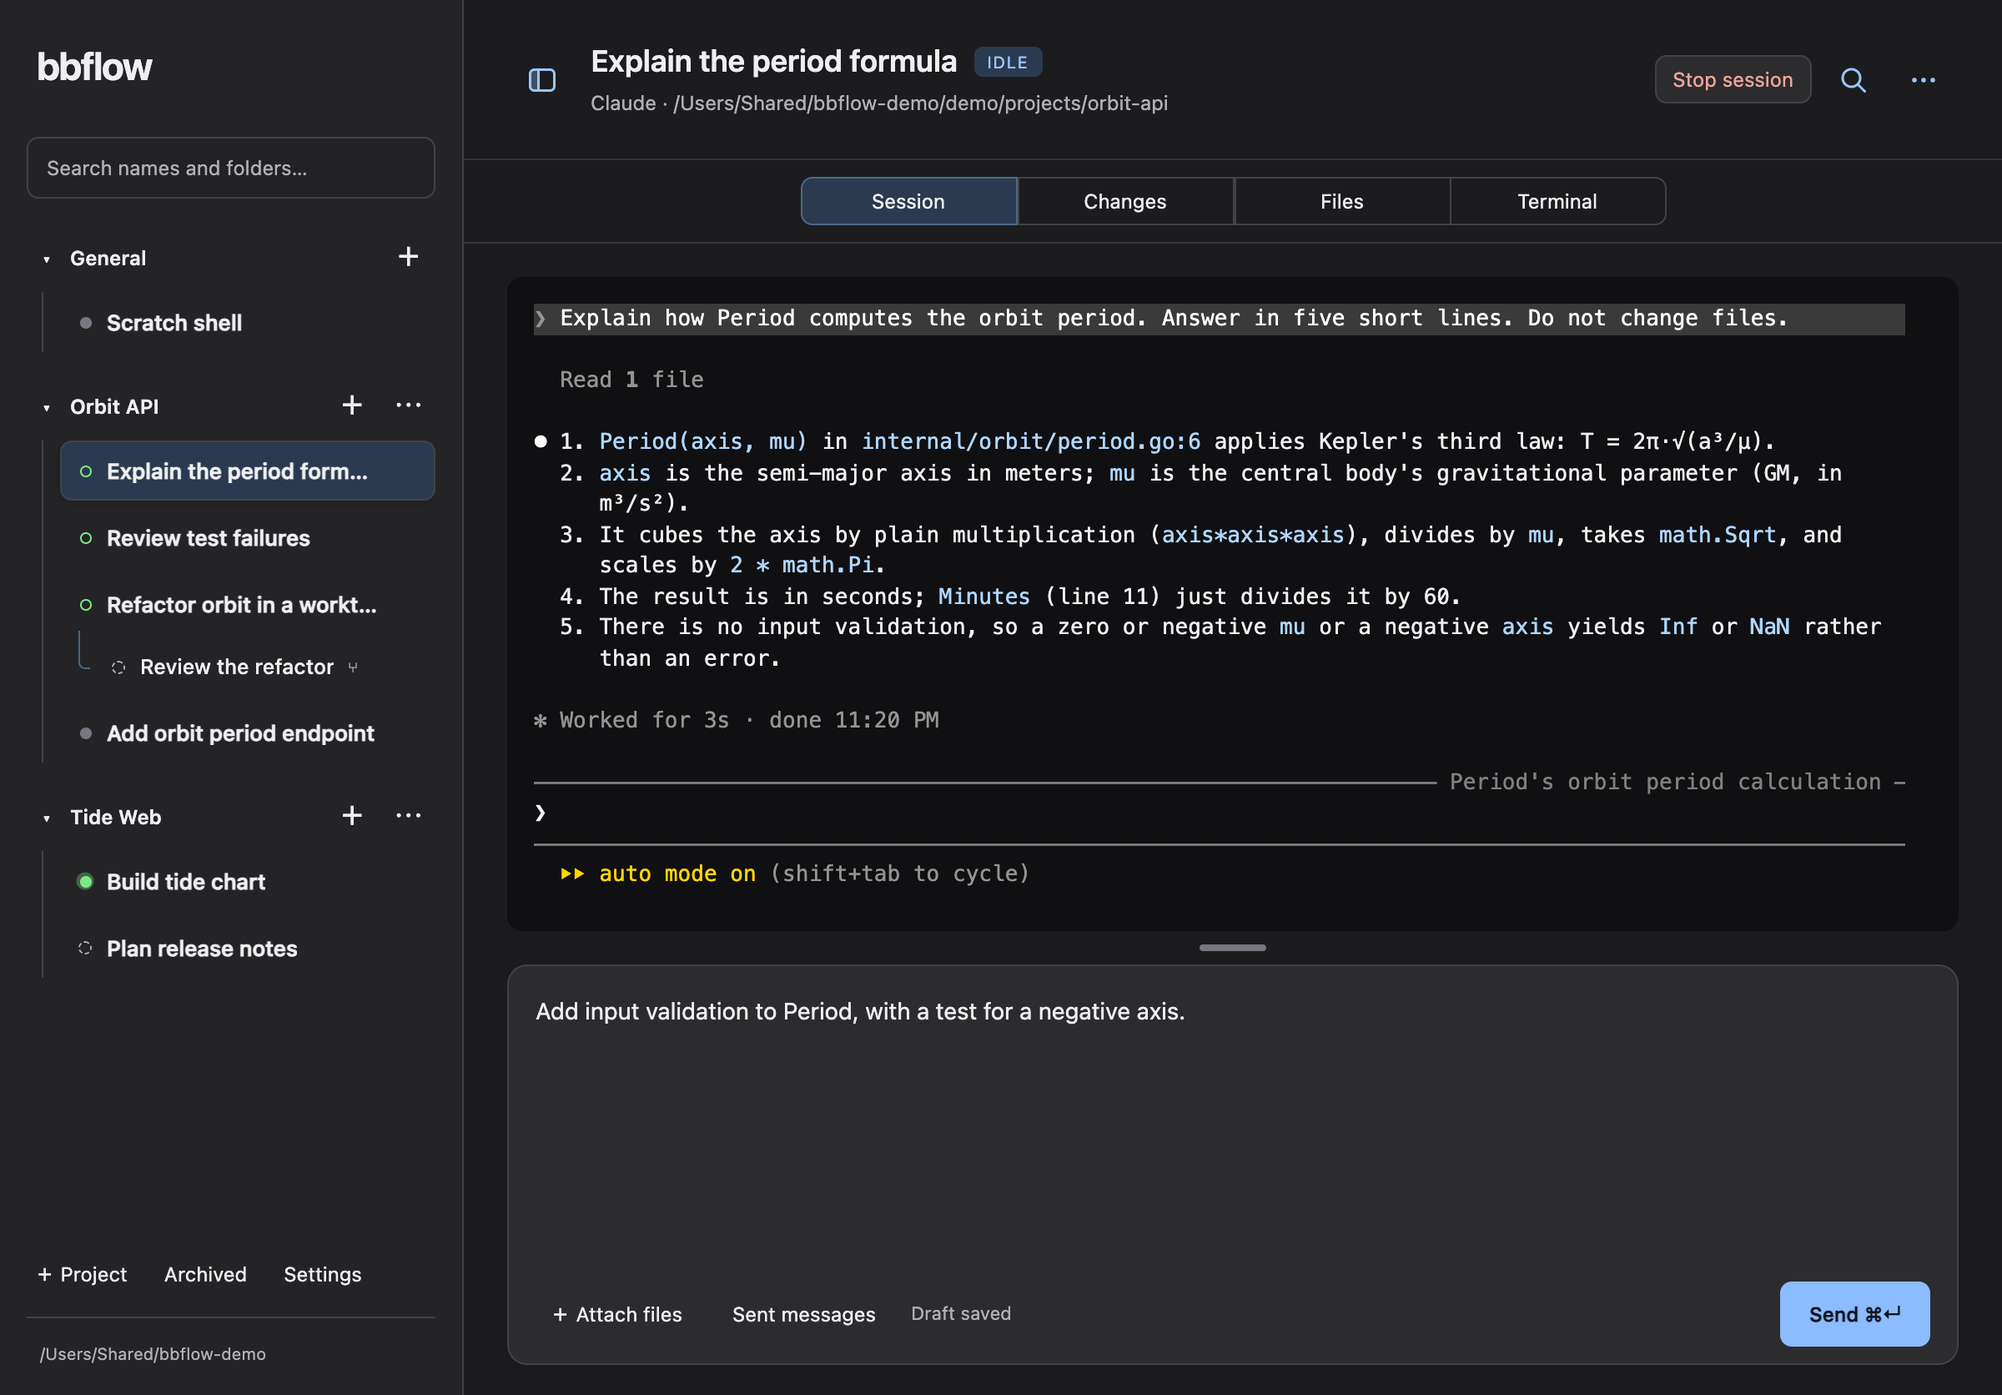
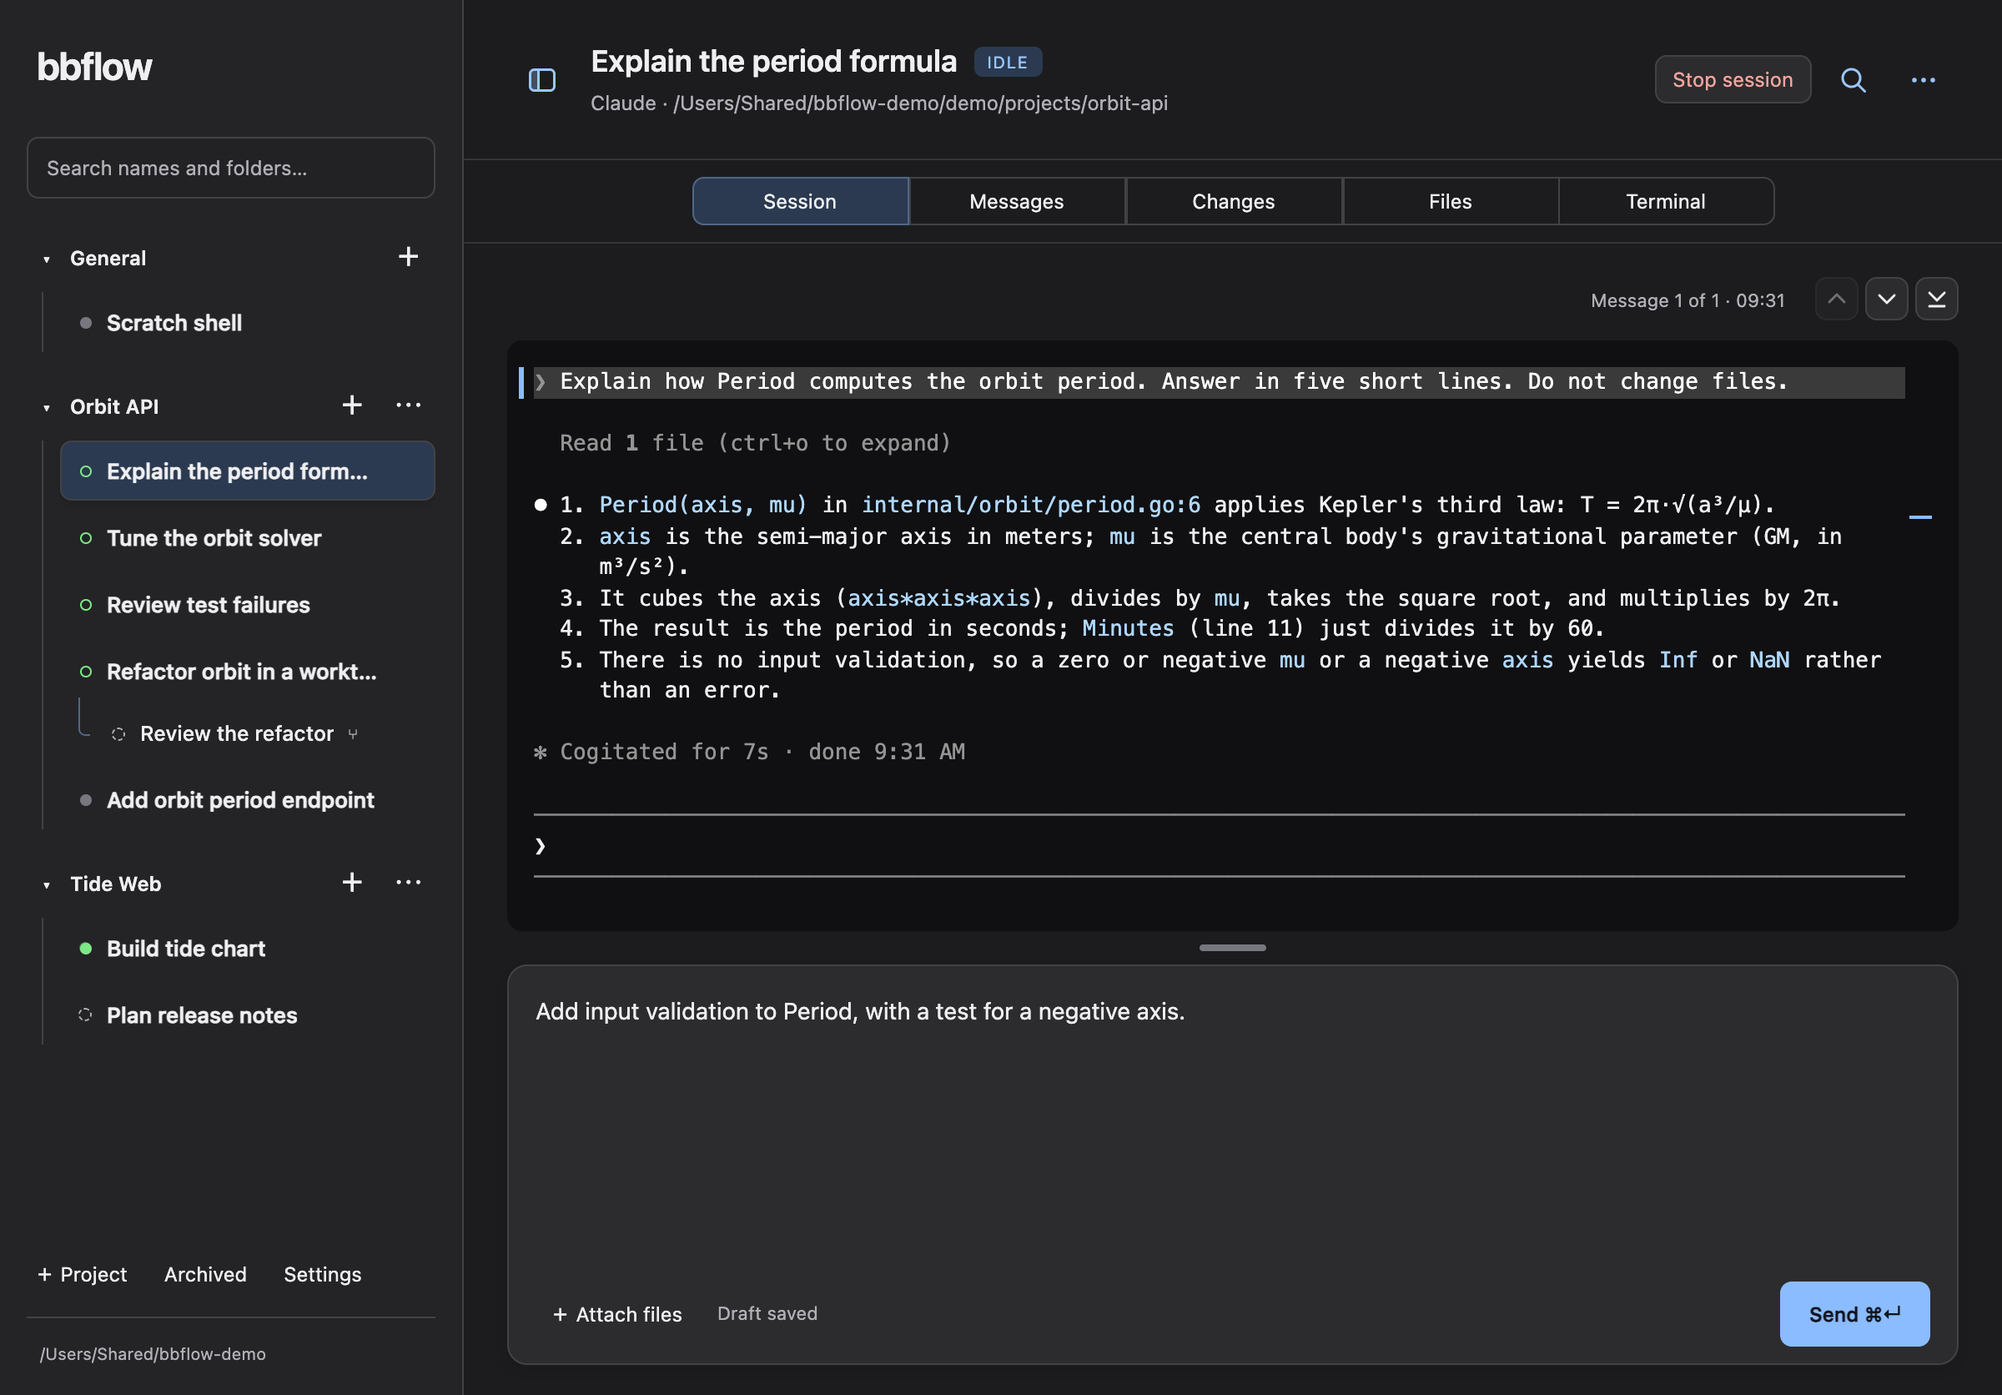
Take the last copy of a message, close two refresh gaps, and refresh the screenshot
Review round 2 and a check with a real Claude Code session found these
defects:

- Claude Code draws its output again after a change of the terminal
  width and can leave an earlier copy of a message in the scrollback. The
  search took that earlier copy. It now takes the messages from the
  newest to the oldest and uses the last place of each one.
- A draft watch that connected again gave only the latest draft, so a
  send from another view in that time refreshed nothing. The editor now
  reports a possible send after each reconnect.
- A reload of the newest page that did not reach the read messages left
  a gap in the cache. The cache now starts again from that page.
- A jump target near the end of the output became the current message
  again when the view returned to the same position by hand. The view
  now drops the target at the first scroll.

docs/images/session.png is a new capture with the message bar, the
Messages view in the view switch, and the editor without Sent messages.
docs/DEVELOPMENT.md has the changed capture steps.

diff --git a/web/src/message-marks.ts b/web/src/message-marks.ts
@@ -76,11 +76,11 @@ function endsRow(joined: Rows, end: number): boolean {
   return rest.length <= tailLimit && !word.test(rest);
 }
 
-// find returns the offset of the first place at or after from where needle passes the
-// checks, or -1.
-function find(joined: Rows, needle: string, from: number, start: boolean, end: boolean): number {
+// findLast returns the offset of the last place where needle passes the checks and ends
+// at or before limit, or -1.
+function findLast(joined: Rows, needle: string, limit: number, start: boolean, end: boolean): number {
   if (!needle) return -1;
-  for (let offset = joined.text.indexOf(needle, from); offset >= 0; offset = joined.text.indexOf(needle, offset + 1)) {
+  for (let offset = joined.text.lastIndexOf(needle, limit - needle.length); offset >= 0; offset = offset > 0 ? joined.text.lastIndexOf(needle, offset - 1) : -1) {
     if ((!start || startsRow(joined, offset)) && (!end || endsRow(joined, offset + needle.length))) return offset;
   }
   return -1;
@@ -88,18 +88,27 @@ function find(joined: Rows, needle: string, from: number, start: boolean, end: b
 
 // locate returns the row of each message in rows, or -1 for a message that the rows do
 // not show. messages are the sent texts in send order, and rows are the text rows of the
-// terminal from the oldest row. A message is searched after the message before it, so
-// that a later quote of an earlier message is not taken for a message.
+// terminal from the oldest row.
+//
+// The search takes the messages from the newest to the oldest. It takes the last place
+// of each message, above the place of the message after it. An application that draws
+// its output again, for example after a change of the terminal width, can leave earlier
+// copies of a message in the scrollback. The last copy has the current output below it.
+// Two messages with the same text thus also get their own rows.
 //
 // The search tries these forms of a message in order, and takes the first that it finds:
 // 1. All of the text, at the start of a row and to the end of a row.
 // 2. The first line, at the start of a row and to the end of a row. An application can
 //    show a long message in a shorter form.
 // 3. The start of the first line, at the start of a row.
+// The rules for the row start and the row end keep a quote of a message in running text
+// from the search.
 export function locate(rows: readonly string[], messages: readonly string[]): number[] {
   const joined = join(rows);
-  let from = 0;
-  return messages.map(message => {
+  let limit = joined.text.length;
+  const found = new Array<number>(messages.length).fill(-1);
+  for (let index = messages.length - 1; index >= 0; index--) {
+    const message = messages[index] ?? '';
     const all = message.replace(spaces, '');
     const first = (message.trim().split('\n')[0] ?? '').replace(spaces, '');
     const prefix = first.slice(0, prefixLength);
@@ -109,13 +118,14 @@ export function locate(rows: readonly string[], messages: readonly string[]): nu
       [prefix.length >= prefixMinimum ? prefix : '', true, false],
     ];
     for (const [needle, start, end] of forms) {
-      const offset = find(joined, needle, from, start, end);
+      const offset = findLast(joined, needle, limit, start, end);
       if (offset < 0) continue;
-      from = offset + needle.length;
-      return rowAt(joined.starts, offset);
+      limit = offset;
+      found[index] = rowAt(joined.starts, offset);
+      break;
     }
-    return -1;
-  });
+  }
+  return found;
 }
 
 // currentMark returns the index of the message that the view reads: the last message at
@@ -197,32 +207,51 @@ export const messageLimit = 200, readLimit = 1000;
 // The sent messages that a view read for the terminal that it shows. The server gives
 // pages from the newest message. messages are the read messages of the terminal, from
 // the oldest. cursor is the revision of the oldest read message, or 0 before the first
-// page. reached is the send time of that message. read counts all read messages.
-export interface MessageCache { messages: SentMessage[]; cursor: number; reached: string; more: boolean; read: number }
+// page. reached is the send time of that message. read counts all read messages. top is
+// the revision of the newest read message.
+export interface MessageCache { messages: SentMessage[]; cursor: number; reached: string; more: boolean; read: number; top: number }
 
 export function emptyCache(): MessageCache {
-  return { messages: [], cursor: 0, reached: '', more: false, read: 0 };
+  return { messages: [], cursor: 0, reached: '', more: false, read: 0, top: 0 };
 }
 
 // addPage adds a page to the cache. A page of older messages starts below the cursor.
 // Without older, the page has the newest messages: the first page, or a reload after a
 // send. The cache keeps only the messages of the terminal, and at most messageLimit of
 // them. It drops the oldest first.
+//
+// A reload continues the cache only when its page reaches a message that the cache
+// read before. Otherwise more messages than one page can lie between them, for example
+// after a tab was offline. The cache then starts again from this page, and the view
+// reads the older pages again.
 export function addPage(cache: MessageCache, page: SentPage, older: boolean, terminal?: { started: string; ended: string }): MessageCache {
   const loaded = [...page.messages].reverse();
-  const oldest = loaded[0];
+  const oldest = loaded[0], newest = loaded.at(-1);
   const kept = loaded.filter(message => inTerminal(message.created, terminal));
-  const first = oldest?.revision ?? Infinity;
-  // A page that reaches the cursor continues the read. A reload of the newest messages
-  // above the cursor only replaces the newest part.
-  const deeper = older || cache.cursor === 0 || first <= cache.cursor;
-  const messages = [...(older ? kept : []), ...cache.messages.filter(message => older || message.revision < first), ...(older ? [] : kept)];
+  if (older) {
+    return {
+      ...cache,
+      messages: [...kept, ...cache.messages].slice(-messageLimit),
+      cursor: oldest?.revision ?? cache.cursor,
+      reached: oldest?.created ?? cache.reached,
+      more: page.more,
+      read: cache.read + loaded.length,
+    };
+  }
+  const joins = cache.cursor !== 0 && !!oldest && oldest.revision <= cache.top;
+  if (!joins) {
+    return { messages: kept.slice(-messageLimit), cursor: oldest?.revision ?? 0, reached: oldest?.created ?? '', more: page.more, read: loaded.length, top: newest?.revision ?? 0 };
+  }
+  // The page reaches the read messages. Replace the part of the cache that it covers.
+  const below = cache.messages.filter(message => message.revision < oldest.revision);
+  const deeper = oldest.revision <= cache.cursor;
   return {
-    messages: messages.slice(-messageLimit),
-    cursor: deeper && oldest ? oldest.revision : cache.cursor,
-    reached: deeper && oldest ? oldest.created : cache.reached,
+    messages: [...below, ...kept].slice(-messageLimit),
+    cursor: deeper ? oldest.revision : cache.cursor,
+    reached: deeper ? oldest.created : cache.reached,
     more: deeper ? page.more : cache.more,
-    read: cache.read + (older || cache.cursor === 0 ? loaded.length : 0),
+    read: cache.read,
+    top: Math.max(cache.top, newest?.revision ?? 0),
   };
 }
 

diff --git a/web/src/composer.ts b/web/src/composer.ts
@@ -250,6 +250,9 @@ export class Composer {
   private receive(next: ComposerState): void {
     if (this.syncLost) {
       this.syncLost = false;
+      // The watch gives only the latest draft after a connection loss. A send from
+      // another view in that time shows in no draft, so read the sent messages again.
+      if (this.loaded) this.host.sent();
       if (this.loaded && !this.saving && this.edits === this.saved) this.message(this.savedMessage());
     }
     if (!this.loaded) { this.apply(next); return; }

diff --git a/web/src/message-nav.ts b/web/src/message-nav.ts
@@ -285,6 +285,9 @@ export class MessageNav {
 
   // Show the bar for the message that the view reads.
   private render(): void {
+    // A jump target applies only until the view scrolls. A later return to the same
+    // position by hand must not make it the current message again.
+    if (this.pinned && this.pinned.top !== this.view?.buffer.active.viewportY) this.pinned = null;
     const count = this.marks.length;
     const bar = this.position();
     const mark = this.marks[bar.current];

diff --git a/docs/SPEC.md b/docs/SPEC.md
@@ -2053,9 +2053,12 @@ That text is the message, then each attached file path in single quotes.
   because an application can show a long message in a shorter form. Last, it looks for
   the first 32 characters of the first line, without the rule for the row end. This
   last form needs at least 12 characters. Each count is without spaces.
-- The search takes the messages in send order. It looks for each message after the
-  position of the message before it. Thus a later quote of a message is not taken for
-  the message.
+- The search takes the messages from the newest to the oldest. It takes the last place
+  of each message, above the place of the message after it. An application that draws
+  its output again can leave earlier copies of a message in the scrollback, for example
+  after a change of the terminal width. The last copy has the current output below it.
+- The rules for the row start and the row end keep a quote of a message in running
+  text from the search.
 - A view of an [earlier terminal](#earlier-terminals) searches only the messages that
   were sent while that terminal ran.
 
@@ -2074,6 +2077,11 @@ replaces the oldest one.
   reads at most 1,000 messages of the session for this.
 - A message from before the start of the terminal ends the read.
 - A send from any view, and a change of the shown terminal, read the newest page again.
+  The draft watch of the editor also causes this read when it connects again, because
+  another view can send a message while the watch is offline.
+- The newest page continues the kept messages only when it reaches a message that the
+  view read before. Otherwise the view starts again from that page and reads the older
+  pages again. Thus more than 20 new messages leave no gap.
 
 #### Message bar
 
@@ -2097,7 +2105,8 @@ terminal keeps its height when the first message is sent.
 
 A jump puts the row of the message at the top of the view. The row has a highlight for
 1.2 seconds. Near the end of the output, the row cannot reach the top. The bar then
-names the jump target until the view scrolls.
+names the jump target until the view scrolls. After a scroll, the bar again names the
+last found message at or above the top row.
 
 In a narrow main area, the workspace pane can take the place of the session. A jump
 from the **Messages** view then closes the pane and shows the session. A jump gives the
@@ -2120,6 +2129,8 @@ to terminal programs.
 
 - A position is derived from the terminal text. An application that shows a message in
   a different form can give no position, or a position on a row with the same text.
+- A response can repeat a message on a row of its own after a prompt character, for
+  example as a quote with `>`. That row is below the message, so it takes the position.
 - Text typed directly in the terminal has no position, because the list has only the
   messages from Send.
 - A message whose rows are no longer in the scrollback of the view has no position. See
@@ -3897,13 +3908,17 @@ edits, the pending send, and the cleared draft. No browser errors were reported.
 - The same fixtures cover the pages of the sent messages: the read past the messages
   of a later terminal, the end of the read before the start of the terminal, the limit
   of 200 messages after a reload, and the limit of 1,000 read messages.
+- The fixtures also cover an earlier copy of a message after the application draws its
+  output again, and a newest page that does not reach the read messages.
 - `web/message-nav.test.mjs` uses a real xterm.js terminal without a page. A step uses
   the new row of a message after the scrollback drops rows. **Earlier message** turns
   on when the view moves from the first message into its response. An earlier terminal
-  gets its message when a later terminal fills the newest page.
+  gets its message when a later terminal fills the newest page. A jump target near the
+  end does not return after the view scrolls away and back.
 - `web/composer.test.mjs` covers the report of a send to the list: one report after a
   send with a receipt, one report after a lost receipt with the draft still pending,
-  and no report for a message that the editor rejects.
+  no report for a message that the editor rejects, and one report after the draft watch
+  connects again.
 - `web/workspace-pane.test.mjs` covers the **Messages** view: its panel, its switch
   button, and the close of the pane for a jump.
 - A second browser check verified the order of the view switch and the toolbar icons,
@@ -3929,8 +3944,14 @@ edits, the pending send, and the cleared draft. No browser errors were reported.
 - A timing run in Node.js searched 10,000 rows of 100 columns for 20 messages in about
   21 milliseconds: 12 milliseconds to read the rows and 10 milliseconds to search.
 - Recordings of Claude Code 2.1.330 and Codex CLI 0.171.0 showed the characters `❯ `
-  and `› ` before a sent message. A session with a real agent CLI was not used for
-  these checks, so the positions in real agent output are not verified in a browser.
+  and `› ` before a sent message.
+- A browser check with a real Claude Code 2.1.330 session in a demo instance sent one
+  message from the editor. The bar showed `Message 1 of 1`, and **Earlier message** put
+  the row of the message at the top. A second view with a different terminal width made
+  Claude Code draw its output again and leave an earlier copy of the message. The
+  search then took the earlier copy. The search now takes the last copy.
+- A session with Codex CLI was not used for these checks, so the positions in its
+  output are not verified in a browser.
 
 ### Checks of continuation and earlier terminals
 

diff --git a/docs/DEVELOPMENT.md b/docs/DEVELOPMENT.md
@@ -116,19 +116,24 @@ To capture the screenshots again, do these steps:
 
    The UI shows the instance path, so the path must not contain a user name. Each
    session inherits the environment of the server.
-2. In **Orbit API**, create a draft with the tool **Claude** and without **Use
-   worktree**. Start the session.
-3. Accept the trust question of Claude Code. Claude Code saves this answer in
+2. Open the UI in the browser view that captures the pages, with the viewport of
+   `session.png`. Do steps 3 to 7 in this view. A second view with a different
+   terminal width makes Claude Code draw its output again. An earlier copy of the
+   message then stays in the terminal.
+3. In **Orbit API**, create a draft with the tool **Claude** and without **Use
+   worktree**. Name it **Explain the period formula**. Start the session.
+4. Accept the trust question of Claude Code. Claude Code saves this answer in
    `~/.claude.json`.
-4. Send one short question about `internal/orbit/period.go` from the message editor.
-   Ask for no file changes.
-5. Write a second message in the message editor. Do not send it.
-6. Open the draft **Plan release notes**. Select the tool **Claude**. The seed selects
+5. Send one short question about `internal/orbit/period.go` from the message editor.
+   Ask for no file changes. Wait for the answer and the status **Idle**.
+6. Write a second message in the message editor. Do not send it.
+7. Click **Earlier message** above the terminal. The question is then at the top of
+   the terminal. Wait two seconds, until the highlight of the row is gone.
+8. Open the draft **Plan release notes**. Select the tool **Claude**. The seed selects
    **Demo agent** for this draft.
-7. Open each view in a browser with the viewport of the table. Use the dark color
-   scheme and a device scale factor of 2.
-8. Capture each page.
-9. Remove the demo instance.
+9. Capture each view with the viewport of the table. Use the dark color scheme and a
+   device scale factor of 2.
+10. Remove the demo instance.
 
    ```sh
    ./bin/bbflow-demo --dir /Users/Shared/bbflow-demo clean
